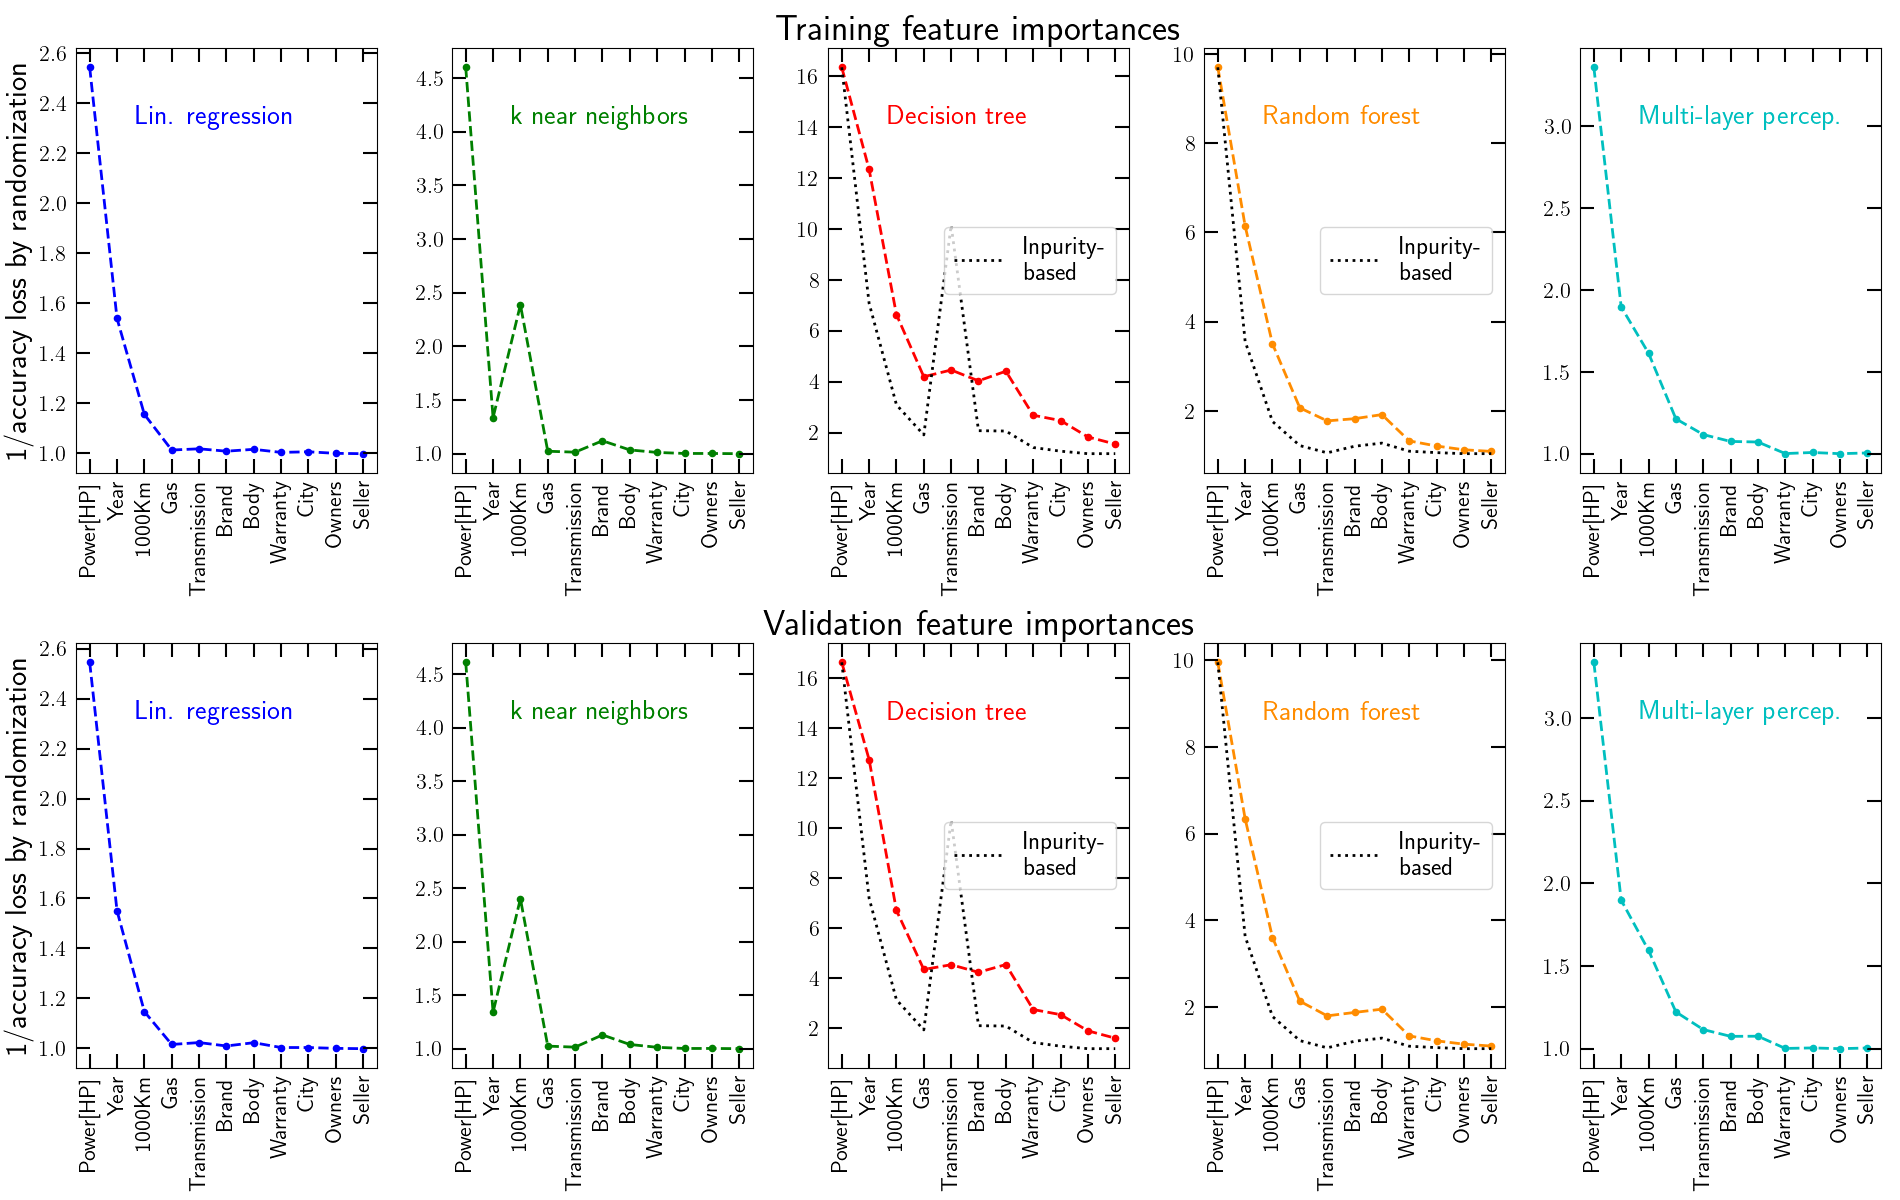
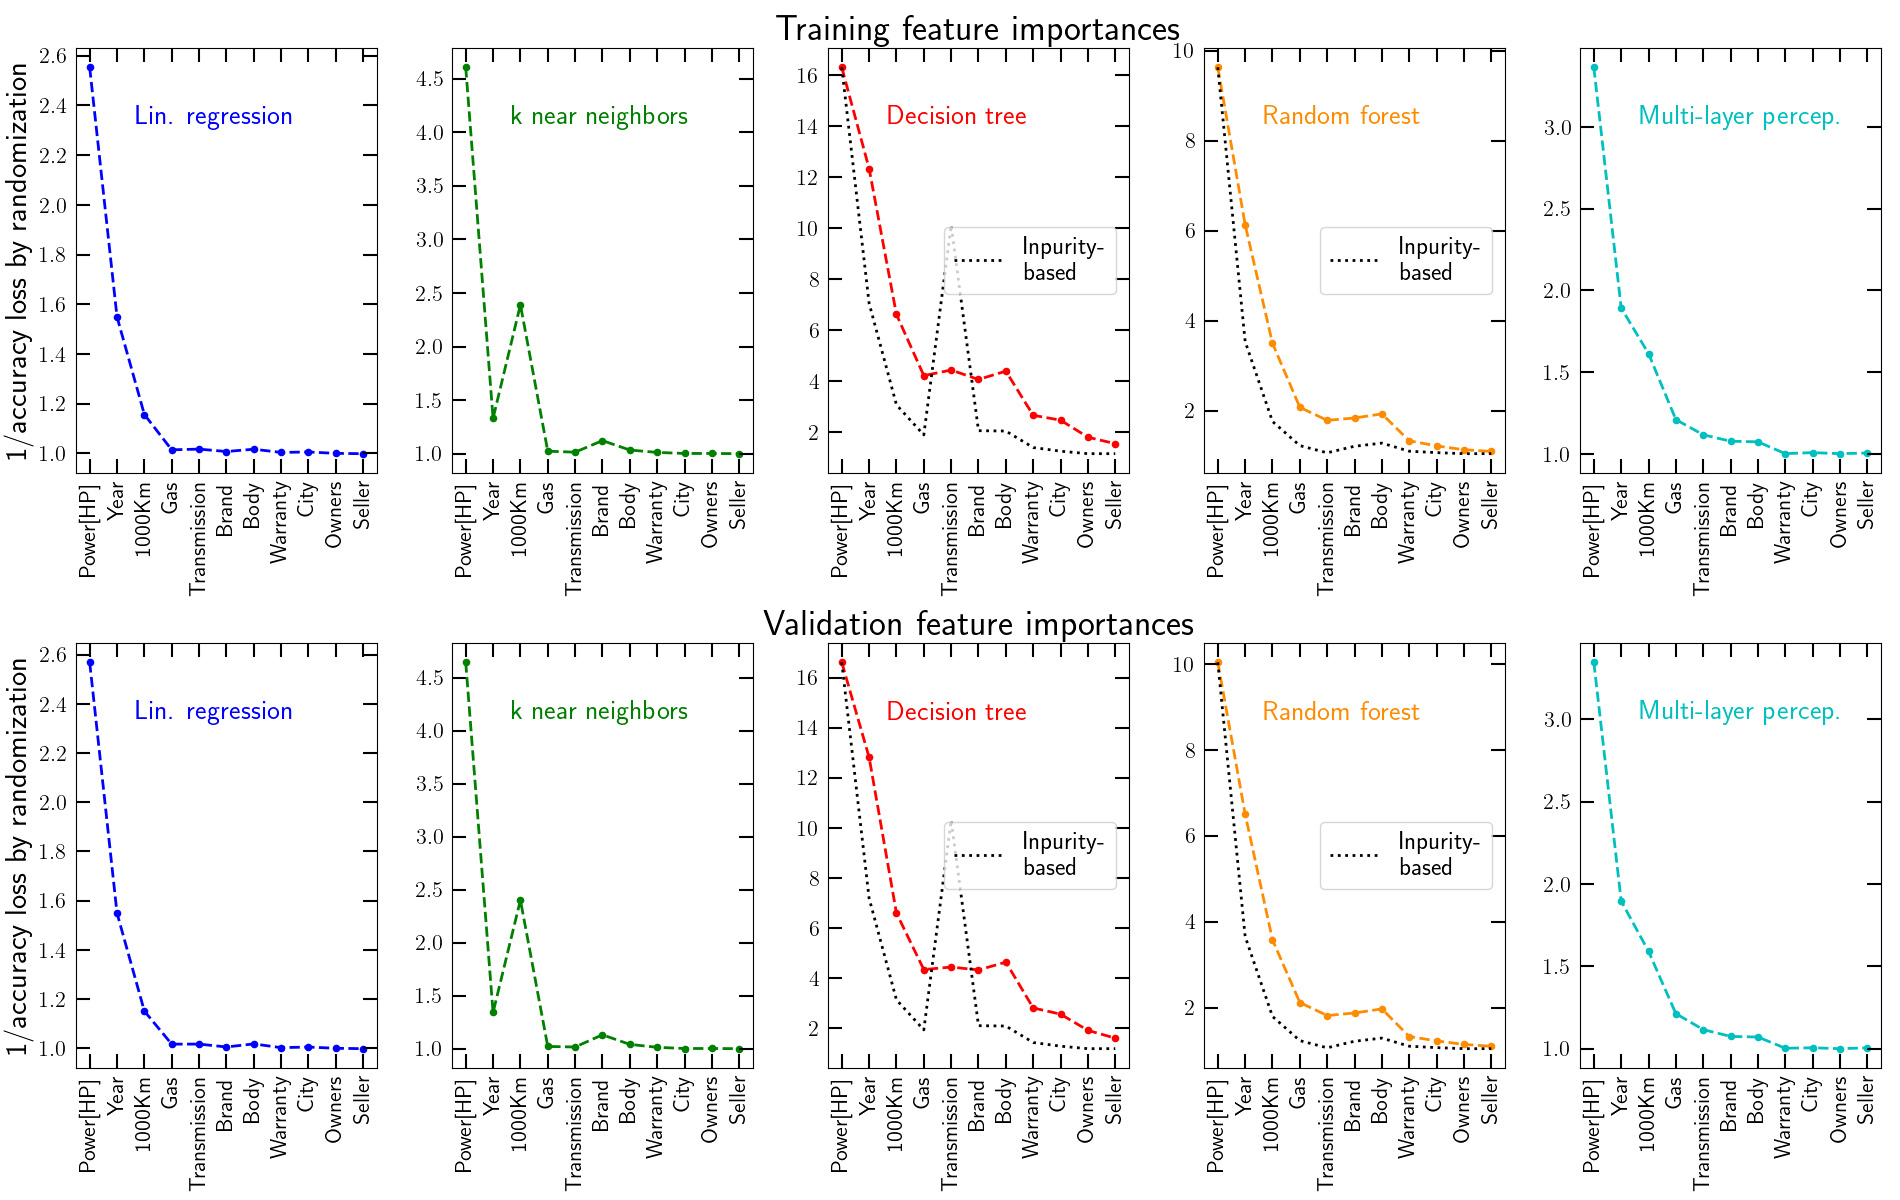
Added feature impact figure

Changed region(s): [[0.6211, 0.6167, 0.6521, 0.6475], [0.4968, 0.8017, 0.5279, 0.8325]]

diff --git a/quantify_feature_impact.py b/quantify_feature_impact.py
@@ -1,0 +1,230 @@
+from parameters import *
+
+#verbose = True
+verbose = False
+
+# ================================================================ 
+# Load data 
+# ================================================================ 
+
+df_train, df_valid, train_features, valid_features, train_labels, valid_labels, N_train, N_valid, N_featu = get_train_valid_data()
+
+df_total = pd.concat([df_train, df_valid])
+df_touse = df_total.drop(['Price[1000Eur]'], axis=1)
+#df_touse = df_train.drop(['Price[1000Eur]'], axis=1)
+#df_touse = df_valid.drop(['Price[1000Eur]'], axis=1)
+cols     = df_touse.columns.tolist()
+
+le_city, le_brand, le_body, le_year, le_gas, le_transmission, le_seller, le_owners, le_warranty = get_encoders()
+list_of_le = [le_city, le_brand, le_body, None, None, le_year, le_gas, le_transmission, le_seller, le_owners, le_warranty]
+
+# ================================================================ 
+# Load models and choose one to do the analysis with
+# ================================================================ 
+
+model_1 = pickle.load(open('model_store/model_1_lin_regression.pickle'   , 'rb'))
+model_2 = pickle.load(open('model_store/model_2_kNearestNeighbors.pickle', 'rb'))
+model_3 = pickle.load(open('model_store/model_3_decision_tree.pickle'    , 'rb'))
+model_4 = pickle.load(open('model_store/model_4_random_forest.pickle'    , 'rb'))
+model_5 = pickle.load(open('model_store/model_5_MLperceptron.pickle'     , 'rb'))
+
+model_list  = [     model_1     ,       model_2      ,      model_3   ,      model_4   ,         model_5      ]
+model_names = ['Lin. regression', 'k near neighbors' , 'Decision tree', 'Random forest', 'Multi-layer percep.']
+model_c     = [      'b'        ,         'g'        ,       'r'      ,   'darkorange' ,            'c'       ]
+
+imodel = 3
+print ('')
+print ('Quantifying feature impact with model:', model_names[imodel])
+print ('')
+model = model_list[imodel]
+
+# ================================================================
+# Quantify impact of each feature 
+# ================================================================
+
+# The quantification of a feature impact is done by checking the impact on mean 
+# car prices that don't have the feature if they are given that feature.
+# E.g. What's the percentage change in prices of all manual cars, if they are assumed automatic
+
+#   0        1       2        3         4           5       6          7            8          9         10
+#['City', 'Brand', 'Body', '1000Km', 'Power[HP]', 'Year', 'Gas', 'Transmission', 'Seller', 'Owners', 'Warranty']
+
+#Label encoding of City: ['berlin' 'münchen'] ----> [0 1]
+#Label encoding of Brand: ['audi' 'bmw' 'ford' 'mercedes' 'opel' 'skoda' 'toyota' 'volkswagen' 'volvo'] ----> [0 1 2 3 4 5 6 7 8]
+#Label encoding of Body: ['kleinwagen' 'kombi' 'limousine' 'suv'] ----> [0 1 2 3]
+#Label encoding of Year: [2013 2014 2015 2016 2017 2018 2019 2020 2021 2022 2023] ----> [ 0  1  2  3  4  5  6  7  8  9 10]
+#Label encoding of Gas: ['Benzin' 'Diesel' 'Other'] ----> [0 1 2]
+#Label encoding of Transmission: ['Automatik' 'Schaltgetriebe'] ----> [0 1]
+#Label encoding of Seller: ['Händler' 'Privat'] ----> [0 1]
+#Label encoding of Owners: [1. 2. 3. 4. 5. 7.] ----> [0 1 2 3 4 5]
+#Label encoding of Warranty: ['Ja' 'Ja-exp' 'Nein'] ----> [0 1 2]
+
+# Type of category of each feature
+category_type = ['category', 'category', 'category', 'bins', 'bins', 'category', 'category', 'category', 'category', 'category', 'category']
+
+# Build bins for '1000km'
+nbins        = 15 # for non-categorial variables
+min_val      = 20.
+max_val      = 200.
+bin_edges_3  = np.linspace(min_val, max_val, nbins+1)
+bin_means_3  = (bin_edges_3[1::] + bin_edges_3[0:-1])/2.
+
+# Build bins for 'Power[HP]'
+nbins        = 15 # for non-categorial variables
+min_val      = 75.
+max_val      = 250.
+bin_edges_4  = np.linspace(min_val, max_val, nbins+1)
+bin_means_4  = (bin_edges_4[1::] + bin_edges_4[0:-1])/2.
+
+list_of_bin_edges = [None, None, None, bin_edges_3, bin_edges_4, None, None, None, None, None, None]
+list_of_bin_means = [None, None, None, bin_means_3, bin_means_4, None, None, None, None, None, None]
+
+# Loop over over features
+feature_impact = []
+for i in range(len(cols)):
+    feature = cols[i]
+    if (verbose):
+        print ('')
+        print ('==========================================================================================')
+        print ('******************************************************************************************')
+        print ('==========================================================================================')
+    print ('feature = ', feature)
+
+    feature_impacts_now = []
+    # Deal with categorial variables
+    if(category_type[i] == 'category'):
+        le_now             = list_of_le[i]
+        encoded_variables  = le_now.transform(le_now.classes_)
+
+        # Loop over categories in feature
+        for j in range(len(le_now.classes_)):
+            if (verbose):
+                print ('')
+                print ('Category now:', le_now.classes_[j], encoded_variables[j])
+
+            # Get predicted prices for all cars not in this category
+            df_now             = df_touse.loc[df_touse[feature] != encoded_variables[j]]
+            prediction_def_now = model.predict(df_now.values)
+
+            if (verbose):
+                print ('')
+                print ('DF for all cars not in this category')
+                print (df_now)
+            
+            # Get predicted prices assuming all of the above cars now have this catogory
+            df_now[feature]    = encoded_variables[j]
+            prediction_mod_now = model.predict(df_now.values)
+
+            if (verbose):
+                print ('')
+                print ('DF for all cars not in this category, assuming they get this category')
+                print (df_now)
+
+            # Estimate impact (mean percentage change)
+            feature_impacts_now.append( 100. * np.mean(prediction_mod_now/prediction_def_now-1.) )
+
+    # Deal with non-categorial variables
+    else:
+        bin_edges = list_of_bin_edges[i]
+        bin_means = list_of_bin_means[i]
+        # Loop over bins in feature
+        for j in range(len(bin_edges)-1):
+
+            if (verbose):
+                print ('')
+                print ('Bin now:', bin_edges[j], bin_edges[j+1], bin_means[j])
+
+            # Get predicted prices for all cars not in this bin
+            df_now             = df_touse.loc[ (df_touse[feature] < bin_edges[j]) | (df_touse[feature] > bin_edges[j+1]) ]
+            prediction_def_now = model.predict(df_now.values)
+
+            if (verbose):
+                print ('')
+                print ('DF for all cars not in this bin')
+                print (df_now)
+
+            # Get predicted prices assuming all of the above cars have now this bin's mean value
+            df_now[feature]    = bin_means[j]
+            prediction_mod_now = model.predict(df_now.values)
+
+            if (verbose):
+                print ('')
+                print ('DF for all cars not in this bin, assuming they get this bin mean')
+                print (df_now)
+
+            # Estimate impact (mean percentage change)
+            feature_impacts_now.append( 100. * np.mean(prediction_mod_now/prediction_def_now-1.) )
+
+    feature_impact.append( feature_impacts_now )
+
+if (verbose):
+    print ('The feature impacts [%]:')
+    for i in range(len(cols)):
+        print (cols[i])
+        print ([round(a,2) for a in feature_impact[i]])
+
+# ================================================================
+# Make plot 
+# ================================================================
+
+fig0 = plt.figure(0, figsize = (17., 10.))
+fig0.subplots_adjust(left=0.06, right=0.99, bottom=0.10, top = 0.98, hspace = 0.45, wspace = 0.2)
+
+#adaptive_max = True
+adaptive_max = False
+nonadap_max  = 25.
+
+for i in range(len(cols)):
+    fig0.add_subplot(3, 4 , i+2)
+
+    feature = cols[i]
+
+    # Deal with categorial variables
+    if(category_type[i] == 'category'):
+        le_now = list_of_le[i]
+        xx = range(len(le_now.classes_))
+        yy = feature_impact[i]
+        # Color according to <0 or >0
+        cc = np.array(['b' for i in range(len(yy))])
+        cc[np.where(np.array(yy) > 0)[0]] = 'r'
+        plt.bar(xx, feature_impact[i], color = cc, alpha = alpha_c)
+        # Cosmetics
+        if( (feature=='Brand') or (feature=='Year') ):
+            plt.xticks(xx, le_now.classes_, rotation = 55)
+        else:
+            plt.xticks(xx, le_now.classes_, rotation = 30)
+
+    # Deal with non-categorical variables
+    else:
+        xx = list_of_bin_means[i]
+        yy = feature_impact[i]
+        xx_width = xx[1]-xx[0]
+        # Color according to <0 or >0
+        cc = np.array(['b' for i in range(len(yy))])
+        cc[np.where(np.array(yy) > 0)[0]] = 'r'
+        plt.bar(xx, feature_impact[i], color = cc, alpha = alpha_c, width = (9./10.)*xx_width)
+        plt.xlabel(cols[i], fontsize = label_font)
+
+    # Other cosmetics
+    if(adaptive_max):
+        max_abs_val = max(abs(np.array(feature_impact[i]))) * 1.10
+        plt.ylim(-max_abs_val, max_abs_val)
+    else:
+        plt.ylim(-nonadap_max, nonadap_max)
+    plt.axhline(0., linestyle = 'dashed', c = 'k', linewidth = 2.)
+    if ( (i==0) or (i==3) or (i==7) ):
+        plt.ylabel(r'Feature impact [\%]', fontsize = label_font)
+    plt.tick_params(length=tick_major, width=tickwidth , bottom=True, top=True, left=True, right=True, direction = 'in', which = 'major', pad = tickpad, labelsize = ticksize)
+    if ( (i==9) or (i==10) ):
+        plt.xlabel(cols[i], fontsize = label_font)
+    if (i==0):
+        plt.annotate('Results from model: \n '+model_names[imodel], xy = (-1.25, 0.3), xycoords = 'axes fraction', fontsize = text_font+8, c = model_c[imodel])
+
+fig0.savefig('fig_store/fig_feature_impact.png')
+
+plt.show()
+
+
+
+
+

diff --git a/quantify_feature_importance.py b/quantify_feature_importance.py
@@ -54,7 +54,7 @@ def get_average_feature_importance(model, data_features, data_labels, N_random):
         average_feature_importance += get_feature_importance(model, data_features, data_labels)[0]
     return average_feature_importance/N_random, get_feature_importance(model, data_features, data_labels)[1]
 
-N_random = 10
+N_random = 1
 feature_importance_train_list = []
 feature_importance_valid_list = []
 for i in range(Nmodels):
@@ -134,6 +134,7 @@ plt.plot(xx, 1./feature_importance_valid_list[i][args_order], linewidth = 2, c =
 plt.xticks(xx, [cols[i] for i in args_order], fontsize = label_font, rotation=45.)
 plt.tick_params(length=tick_major, width=tickwidth, left=True, bottom=True, right=True, top=True, direction = 'in', which='major', pad=tickpad, labelsize = ticksize+6)
 plt.ylabel('Car feature importance', fontsize = label_font+6)
+plt.annotate('Results from model: \n '+model_names[i], xy = (0.4, 0.65), xycoords = 'axes fraction', fontsize = text_font+8, c = model_c[i])
 
 fig1.savefig('fig_store/fig_feature_importances_by_randomization_model_4_random_forest.png')
 

diff --git a/plot_data_stats.py b/plot_data_stats.py
@@ -16,10 +16,12 @@ cols     = df_total.columns.tolist()
 le_city, le_brand, le_body, le_year, le_gas, le_transmission, le_seller, le_owners, le_warranty = get_encoders()
 list_of_le = [None, le_city, le_brand, le_body, None, None, le_year, le_gas, le_transmission, le_seller, le_owners, le_warranty]
 
-#df = pd.read_csv('data_store/data_cars_autoscout24.csv')
-#a = df['URL'].loc[df['Owners'] > 4]
-#for i in a:
-#    print (i)
+df = pd.read_csv('data_store/data_cars_autoscout24.csv')
+a = df.loc[df['Power[HP]'] < 50]
+print (a)
+for i in a['URL']:
+    print (i)
+quit()
 
 # ================================================================ 
 # Plot # of cars as a function of features

diff --git a/parameters.py b/parameters.py
@@ -22,7 +22,8 @@ body_names = ['kleinwagen', 'cabrio', 'coupe', 'suv', 'kombi', 'limousine', 'van
 body_types = [    '1'     ,                     '4' ,   '5'  ,      '6'   ]
 
 # Car brands 
-brand_list = ['audi', 'bmw', 'ford', 'mercedes', 'opel', 'skoda', 'toyota', 'volkswagen', 'volvo']
+#brand_list = ['audi', 'bmw', 'ford', 'mercedes', 'opel', 'skoda', 'toyota', 'volkswagen', 'volvo']
+brand_list = ['audi', 'bmw', 'ford', 'mercedes-benz', 'opel', 'skoda', 'toyota', 'volkswagen', 'volvo']
 
 # German state capitals
 search_radius = '100' #1000 x km
